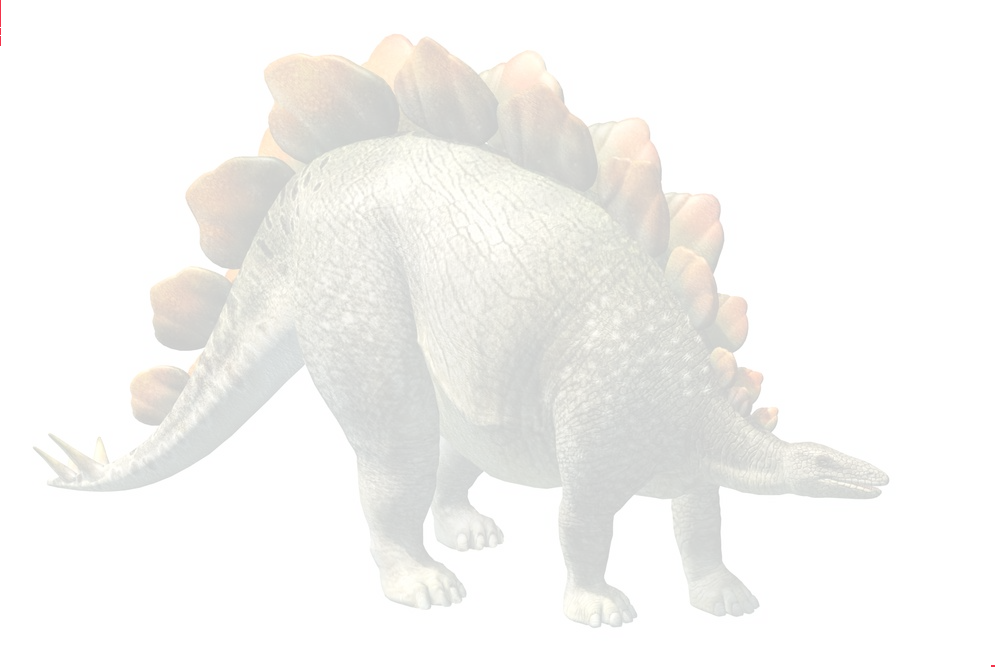
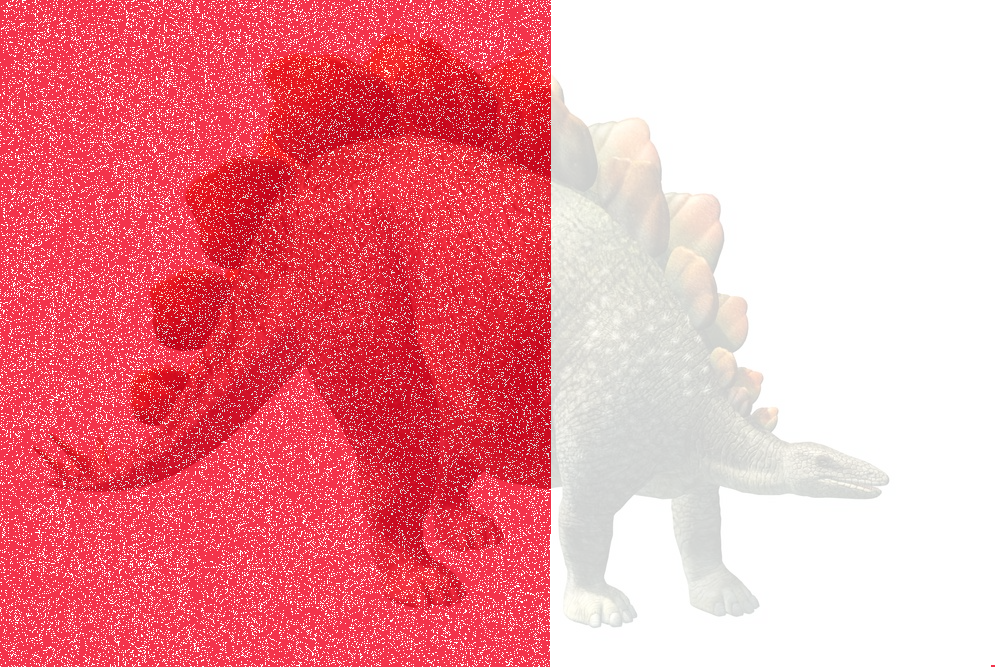
feat: add image hiding & fetching

diff --git a/Program.cs b/Program.cs
@@ -18,8 +18,13 @@ public abstract class Program
             case Mode.hide:
                 if (options.Type == Type.text)
                 {
-                    var messageBits = Message.ToBits(options.Content);
+                    var messageBits = Bits.FromMessage(options.Content);
                     Hide.Bits(messageBits, options.Input, options.Output);
+                }
+                else if (options.Type == Type.image)
+                {
+                    var fileBits = Bits.FromFile(options.Content);
+                    Hide.Bits(fileBits, options.Input, options.Output);
                 }
                 else
                 {
@@ -28,8 +33,21 @@ public abstract class Program
                 break;
 
             case Mode.fetch:
-                var hiddenMessage = Fetch.Text(options.Source);
-                Console.WriteLine($"Hidden Message: [{hiddenMessage}]");
+                if (options.Type == Type.text)
+                {
+                    var hiddenMessage = Fetch.Text(options.Source);
+                    Console.WriteLine($"Hidden Message: [{hiddenMessage}]");
+                }
+                else if (options.Type == Type.image)
+                {
+                    Fetch.File(options.Source);
+                    Console.WriteLine($"Hidden File Found");
+                }
+                else
+                {
+                    Console.WriteLine("Unsupported type for hiding.");
+                }
+
                 break;
 
             default:

diff --git a/Bits.cs b/Bits.cs
@@ -1,0 +1,58 @@
+using System.Text;
+
+namespace Stegosaurus;
+
+public static class Bits
+{
+    public static string ToMessage(string bits)
+    {
+        var bytes = new byte[bits.Length / 8];
+
+        for (int i = 0; i < bits.Length; i += 8)
+        {
+            bytes[i / 8] = Convert.ToByte(bits.Substring(i, 8), 2);
+        }
+
+        return Encoding.UTF8.GetString(bytes);
+    }
+    
+    public static char[] FromMessage(string message)
+    {
+        var messageBytes = Encoding.UTF8.GetBytes(message);
+        var messageBits = new StringBuilder();
+
+        foreach (var b in messageBytes)
+        {
+            messageBits.Append(Convert.ToString(b, 2).PadLeft(8, '0'));
+        }
+
+        return messageBits.ToString().ToCharArray();
+    }
+
+    public static char[] FromFile(string path)
+    {
+        var data = File.ReadAllBytes(path);
+        var buf = new StringBuilder();
+
+        foreach (var b in data)
+        {
+            var binaryStr = Convert.ToString(b, 2);
+            var padStr = binaryStr.PadLeft(8, '0');
+            buf.Append(padStr);
+        }
+
+        return buf.ToString().ToCharArray();
+    }
+
+    public static void ToFile(string bits)
+    {
+        var bytes = new byte[bits.Length / 8];
+
+        for (int i = 0; i < bits.Length; i += 8)
+        {
+            bytes[i / 8] = Convert.ToByte(bits.Substring(i, 8), 2);
+        }
+        
+        File.WriteAllBytes("./hidden_image.png", bytes);
+    }
+}

diff --git a/Fetch.cs b/Fetch.cs
@@ -10,14 +10,22 @@ public static class Fetch
     {
         using var image = Image.Load<Rgba32>(imagePath);
         var messageLength = ExtractEmbeddedBitsLength(image);
-        var messageBits = ExtractMessageFromImage(image, messageLength);
+        var messageBits = ExtractBitsFromImage(image, messageLength);
 
-        return Message.FromBits(messageBits);
+        return Bits.ToMessage(messageBits);
+    }
+
+    public static void File(string imagePath)
+    {
+        using var image = Image.Load<Rgba32>(imagePath);
+        var imageLength = ExtractEmbeddedBitsLength(image);
+        var imageBits = ExtractBitsFromImage(image, imageLength);
+        Bits.ToFile(imageBits);
     }
     
     private static int ExtractEmbeddedBitsLength(Image<Rgba32> image)
     {
-        StringBuilder lengthBits = new StringBuilder();
+        var lengthBits = new StringBuilder();
 
         // Extract length from the last 8 pixels
         int lengthCounter = 0;
@@ -43,9 +51,9 @@ public static class Fetch
         return Convert.ToInt32(lengthBits.ToString(), 2);
     }
     
-    private static string ExtractMessageFromImage(Image<Rgba32> image, int messageLength)
+    private static string ExtractBitsFromImage(Image<Rgba32> image, int messageLength)
     {
-        StringBuilder messageBits = new StringBuilder();
+        var messageBits = new StringBuilder();
 
         var messageCounter = 0;
         for (int x = 0; x < image.Width; x++)

diff --git a/Hide.cs b/Hide.cs
@@ -10,7 +10,7 @@ public static class Hide
     {
         using var image = Image.Load<Rgba32>(inputImagePath);
 
-        if (bits.Length > (image.Width * image.Height) * 3)
+        if (bits.Length > (image.Width - 9) * (image.Height - 2) * 3)
         {
             Console.WriteLine("Message is too long to hide in this image.");
             return;

diff --git a/README.md b/README.md
@@ -2,11 +2,18 @@
 
 To run: `./bin/debug/net8.0/Stegosaurus`
 
-To Hide: `./bin/debug/net8.0/Stegosaurus -m hide -t text -c "Hello World" -i "./steg.png" -o "./output.png"`
-To Hide: `./bin/debug/net8.0/Stegosaurus -m hide -t text -c "This is a test :)" -i "./steg.png" -o "./output.png"`
+To Hide:
 
-To Fetch: `./bin/debug/net8.0/Stegosaurus -m fetch -t text -s "./output.png"`
+* `./bin/debug/net8.0/Stegosaurus -m hide -t text -c "Hello World" -i "./steg.png" -o "./output.png"`
+* `./bin/debug/net8.0/Stegosaurus -m hide -t text -c "This is a test :)" -i "./steg.png" -o "./output.png"`
+* `./bin/debug/net8.0/Stegosaurus -m hide -t image -c "./me.png" -i "./steg.png" -o "./output.png"`
+
+To Fetch:
+
+* `./bin/debug/net8.0/Stegosaurus -m fetch -t text -s "./output.png"`
+* `./bin/debug/net8.0/Stegosaurus -m fetch -t image -s "./output.png"`
 
 To Show diff:
-1. `brew install imagemagick`
+
+1. `brew install imagemagick` (Or visit https://imagemagick.org/script/download.php)
 2. `magick compare ./steg.png ./output.png ./diff.png`
